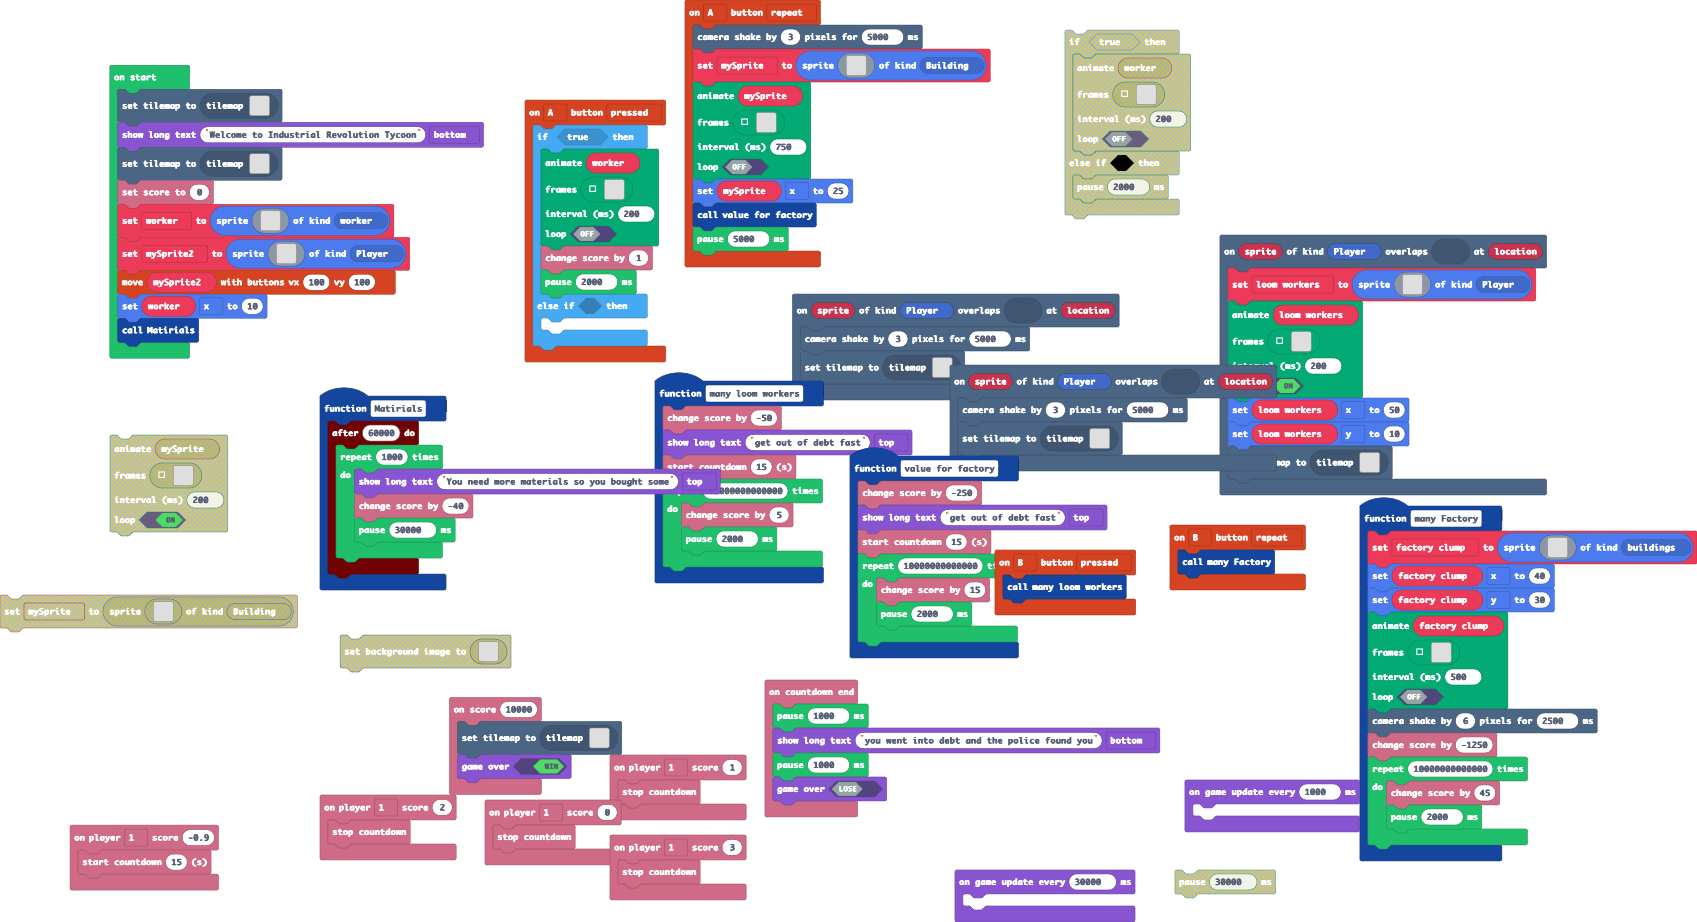
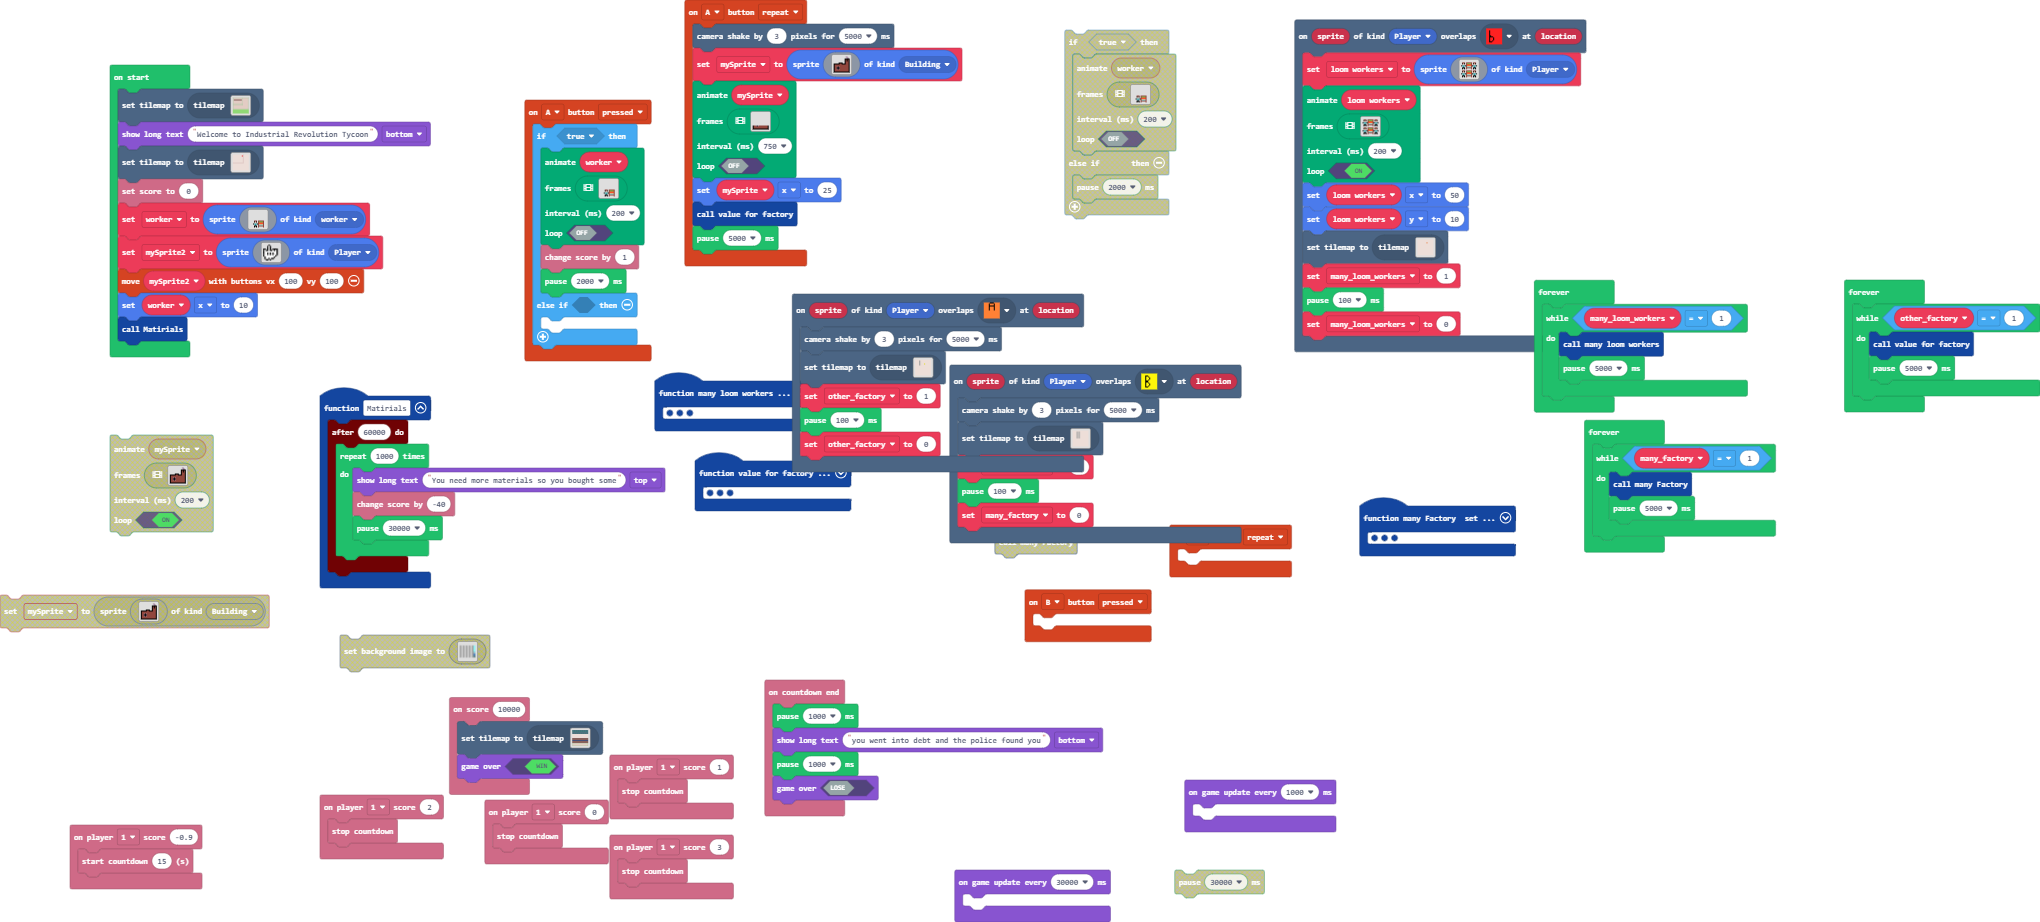
Fixed the dumb button thing

diff --git a/main.ts b/main.ts
@@ -136,9 +136,12 @@ scene.onOverlapTile(SpriteKind.Player, assets.tile`myTile6`, function (sprite, l
     loom_workers.x = 50
     loom_workers.y = 10
     tiles.setCurrentTilemap(tilemap`level6`)
+    many_loom_workers2 = 1
+    pause(100)
+    many_loom_workers2 = 0
 })
 controller.B.onEvent(ControllerButtonEvent.Pressed, function () {
-    many_loom_workers()
+	
 })
 controller.A.onEvent(ControllerButtonEvent.Pressed, function () {
     if (true) {
@@ -327,6 +330,9 @@ controller.A.onEvent(ControllerButtonEvent.Pressed, function () {
 scene.onOverlapTile(SpriteKind.Player, assets.tile`myTile4`, function (sprite, location) {
     scene.cameraShake(3, 5000)
     tiles.setCurrentTilemap(tilemap`level11`)
+    other_factory = 1
+    pause(100)
+    other_factory = 0
 })
 info.onCountdownEnd(function () {
     pause(1000)
@@ -339,7 +345,7 @@ info.onScore(10000, function () {
     game.gameOver(true)
 })
 controller.B.onEvent(ControllerButtonEvent.Repeated, function () {
-    many_Factory()
+	
 })
 function Matirials () {
     timer.after(60000, function () {
@@ -356,6 +362,9 @@ info.player1.onScore(2, function () {
 scene.onOverlapTile(SpriteKind.Player, assets.tile`myTile2`, function (sprite, location) {
     scene.cameraShake(3, 5000)
     tiles.setCurrentTilemap(tilemap`level18`)
+    many_factory = 1
+    pause(100)
+    many_factory = 0
 })
 function many_Factory () {
     factory_clump = sprites.create(assets.image`Factory clump`, SpriteKind.buildings)
@@ -700,6 +709,9 @@ info.player1.onScore(3, function () {
 })
 let mySprite: Sprite = null
 let factory_clump: Sprite = null
+let many_factory = 0
+let other_factory = 0
+let many_loom_workers2 = 0
 let loom_workers: Sprite = null
 let worker: Sprite = null
 tiles.setCurrentTilemap(tilemap`level8`)
@@ -743,6 +755,24 @@ worker.x = 10
 Matirials()
 game.onUpdateInterval(1000, function () {
 	
+})
+forever(function () {
+    while (many_loom_workers2 == 1) {
+        many_loom_workers()
+        pause(5000)
+    }
+})
+forever(function () {
+    while (other_factory == 1) {
+        value_for_factory()
+        pause(5000)
+    }
+})
+forever(function () {
+    while (many_factory == 1) {
+        many_Factory()
+        pause(5000)
+    }
 })
 game.onUpdateInterval(30000, function () {
 	
